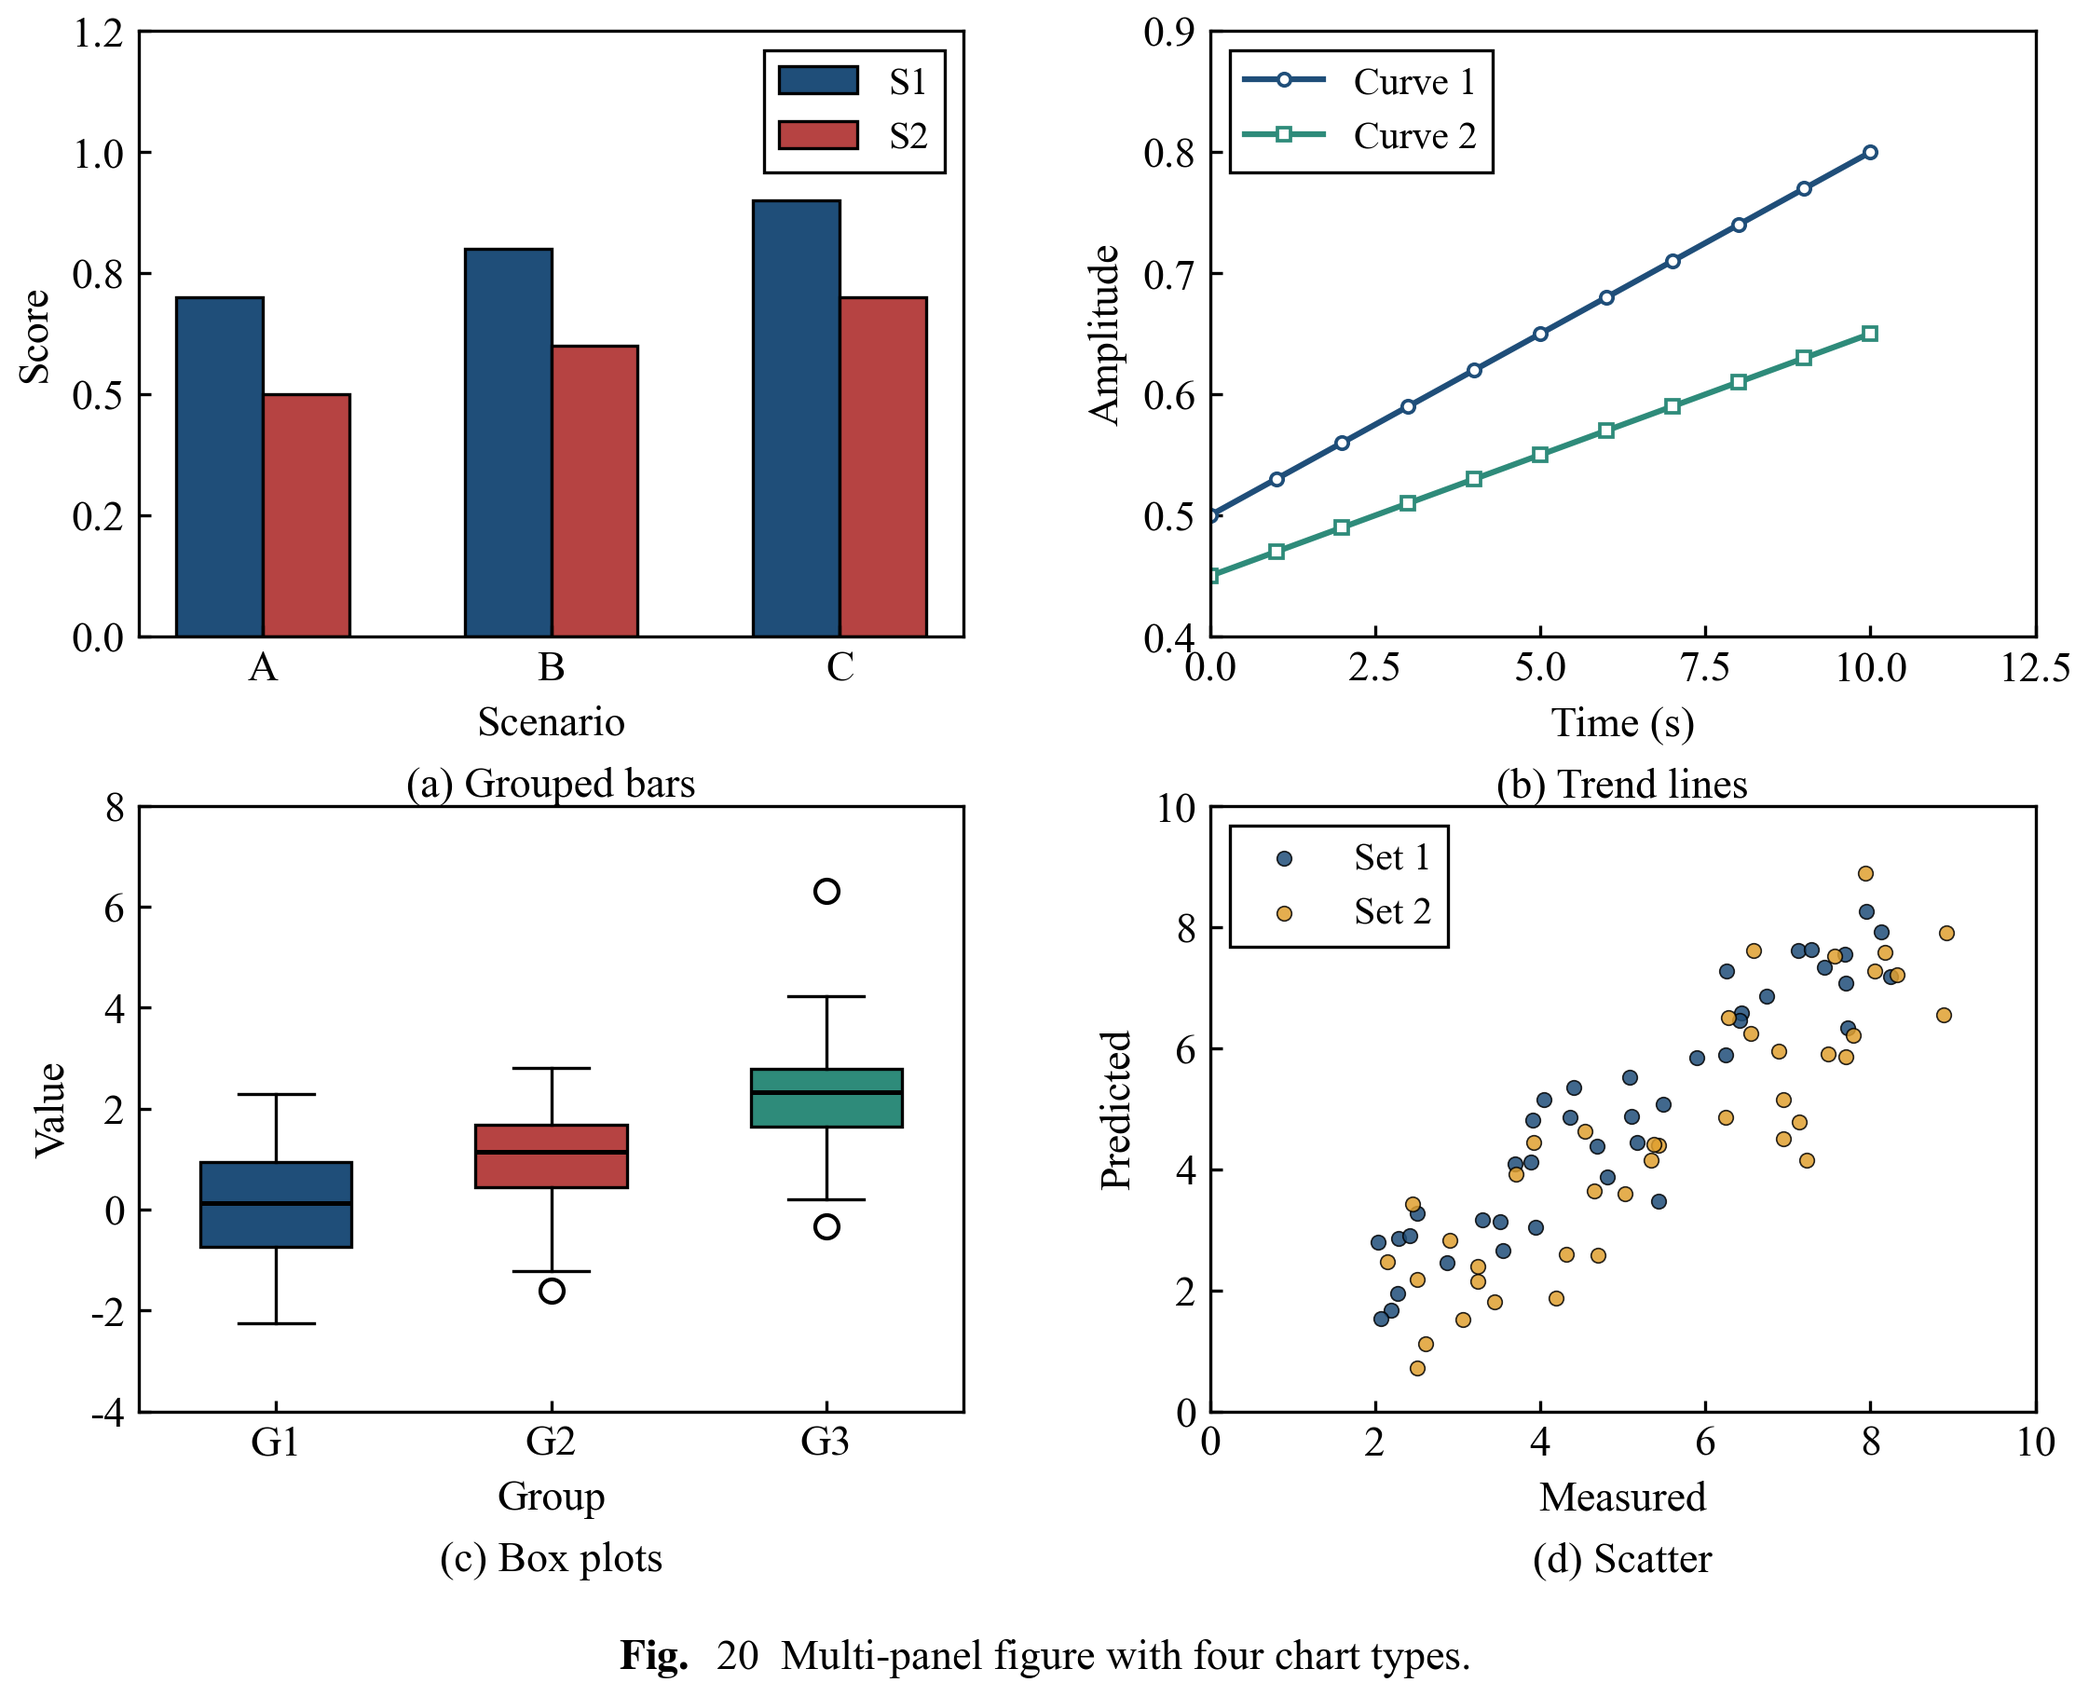
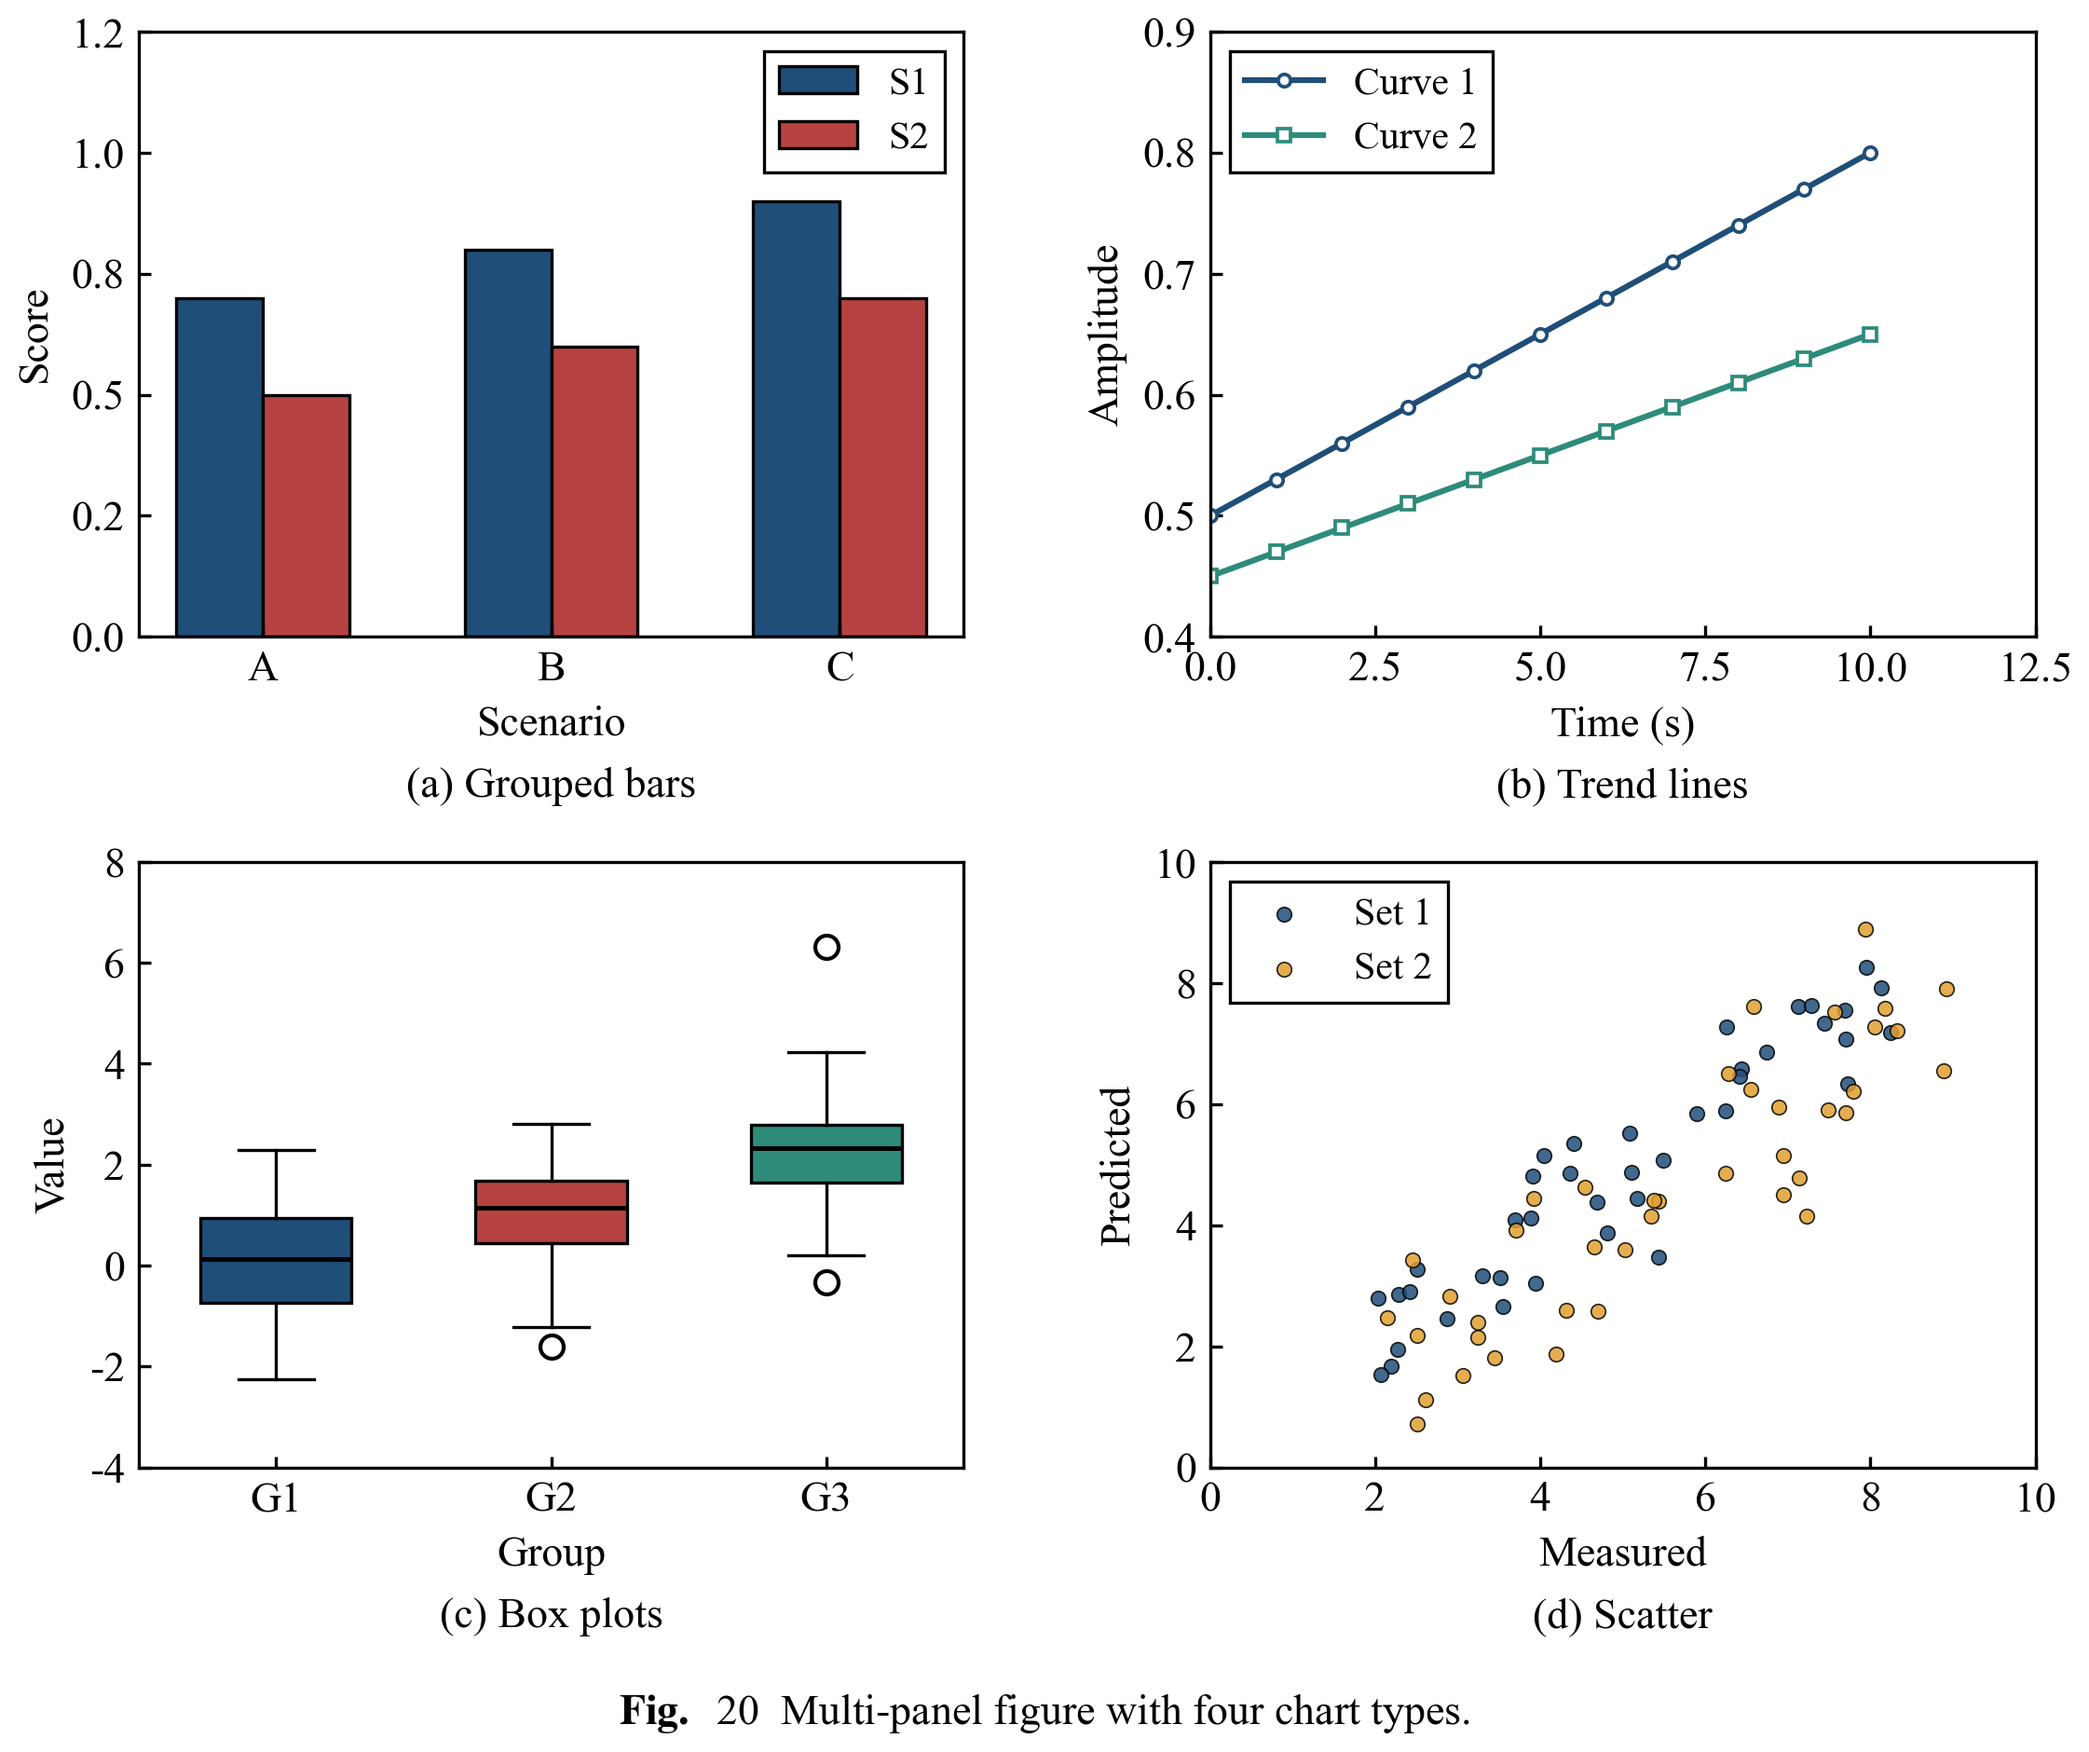
2x2 multi-panel: match the row gap to the 14 pt caption gap
Add _match_row_gap_to_caption: after the panel boxes are resized, the rows
below the first are shifted so the top row's panel titles sit exactly
WXL_CAPTION_PAD_PT (14 pt) above the next row's panels - the same distance the
caption sits below the grid. Only the vertical row gap changes; the panel
boxes (75x55 mm), the column positions, the horizontal spacing and the caption
gap are untouched.

diff --git a/assets/wxl_style.py b/assets/wxl_style.py
@@ -1023,6 +1023,47 @@ def _resize_grid_panels(fig, w_mm: float, h_mm: float) -> int:
     return len(targets)
 
 
+def _match_row_gap_to_caption(fig, pad_pt: float = WXL_CAPTION_PAD_PT) -> bool:
+    """Set the gap between a panel row and the panel titles above it.
+
+    The top row's panel titles must sit ``pad_pt`` above the next row's panels,
+    the same distance the caption sits below the grid, so the two gaps read
+    alike. Rows below the first are shifted down (never the top row), which
+    keeps the column positions and the horizontal spacing untouched. Returns
+    True when the rows were moved.
+    """
+    fig.canvas.draw()
+    r = fig.canvas.get_renderer()
+    axes = [a for a in fig.get_axes()
+            if a.axison and not _is_polar(a) and not hasattr(a, "_colorbar")]
+    if len(axes) < 2:
+        return False
+    rows: dict[float, list] = {}
+    for a in axes:
+        bb = a.get_window_extent()
+        rows.setdefault(round((bb.y0 + bb.y1) / 2.0, 3), []).append(a)
+    ys = sorted(rows, reverse=True)                    # top row first
+    if len(ys) < 2:
+        return False
+    lows = [t.get_window_extent(r).y0
+            for a in rows[ys[0]] for t in a.texts]
+    if not lows:
+        return False
+    next_top = max(a.get_window_extent().y1 for a in rows[ys[1]])
+    gap_px = min(lows) - next_top
+    target_px = pad_pt / 72.0 * fig.dpi
+    delta_px = target_px - gap_px
+    if abs(delta_px) < 0.5:
+        return False
+    dy = delta_px / (float(fig.get_size_inches()[1]) * fig.dpi)
+    for y in ys[1:]:
+        for a in rows[y]:
+            p = a.get_position()
+            a.set_position([p.x0, p.y0 - dy, p.width, p.height])
+    fig._wxl_no_tight = True
+    return True
+
+
 def finalize_figure(fig, out_path, formats=None, dpi: int | None = None,
                     close: bool = True, pad: float = 0.06, layout: bool = True,
                     target_width_mm: float | None = None, tol_mm: float = 0.5,
@@ -1110,6 +1151,11 @@ def finalize_figure(fig, out_path, formats=None, dpi: int | None = None,
         if _resize_grid_panels(fig, *panel_box):
             _prepare()
             _relayout()
+            # the top row's panel titles must clear the next row by the same
+            # 14 pt the caption uses below the grid
+            if _match_row_gap_to_caption(fig):
+                _prepare()
+                _relayout()
 
     saved = []
     for ext in formats:
